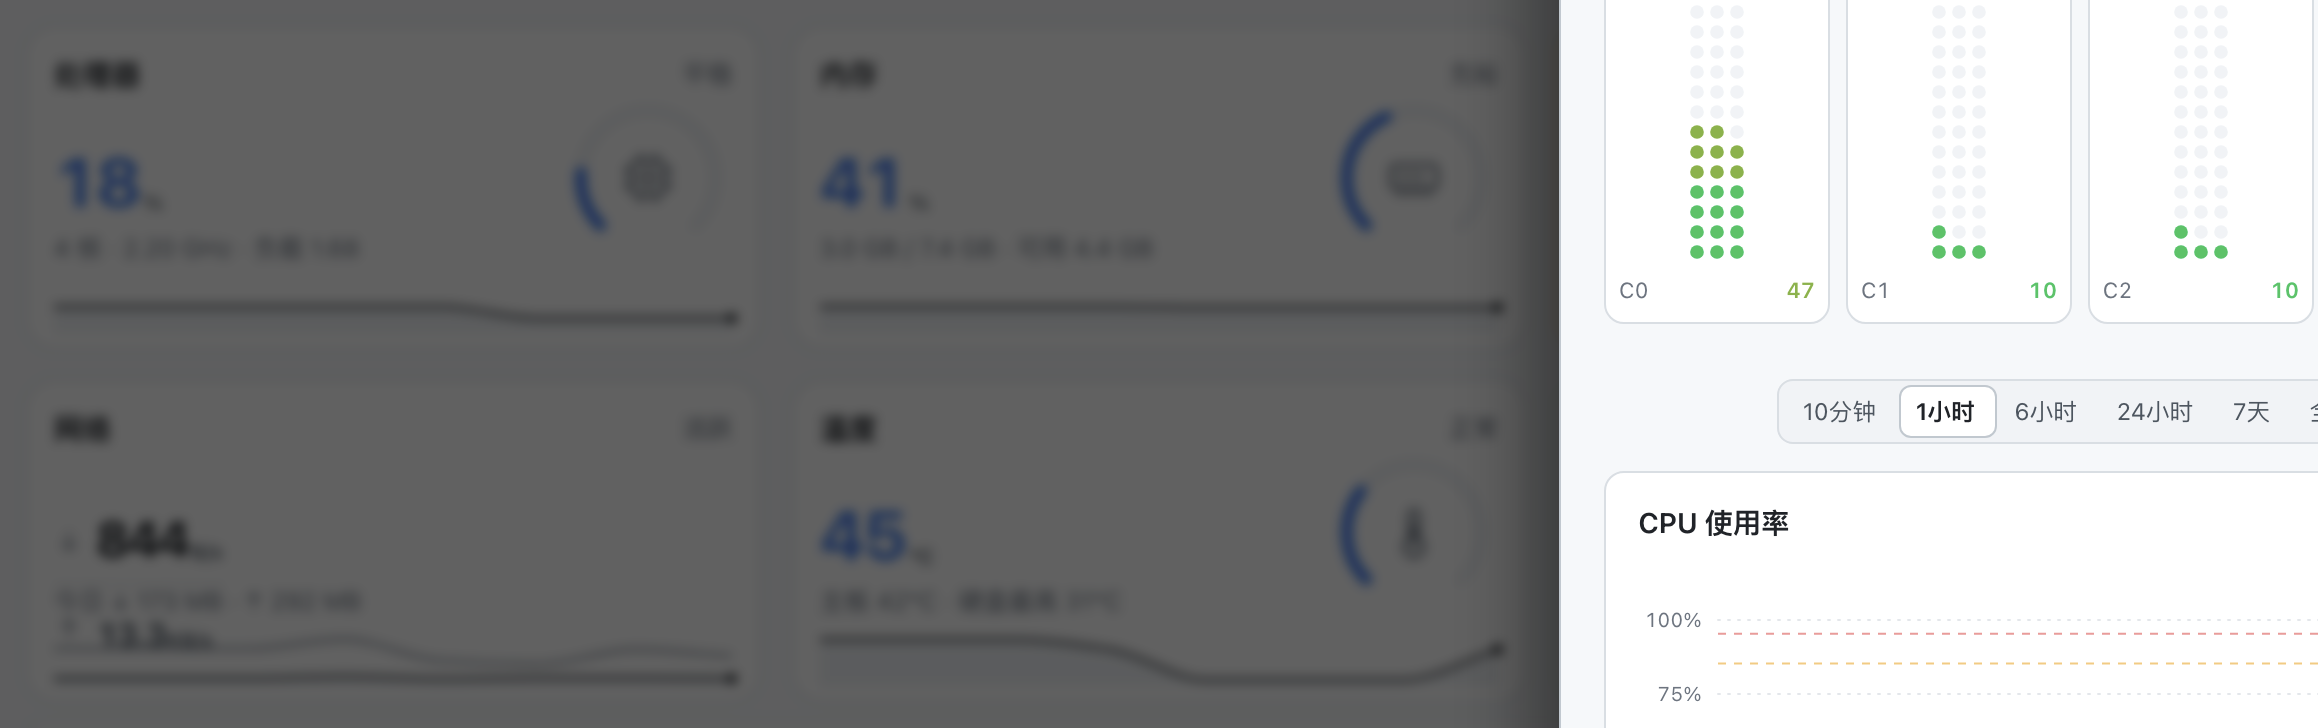
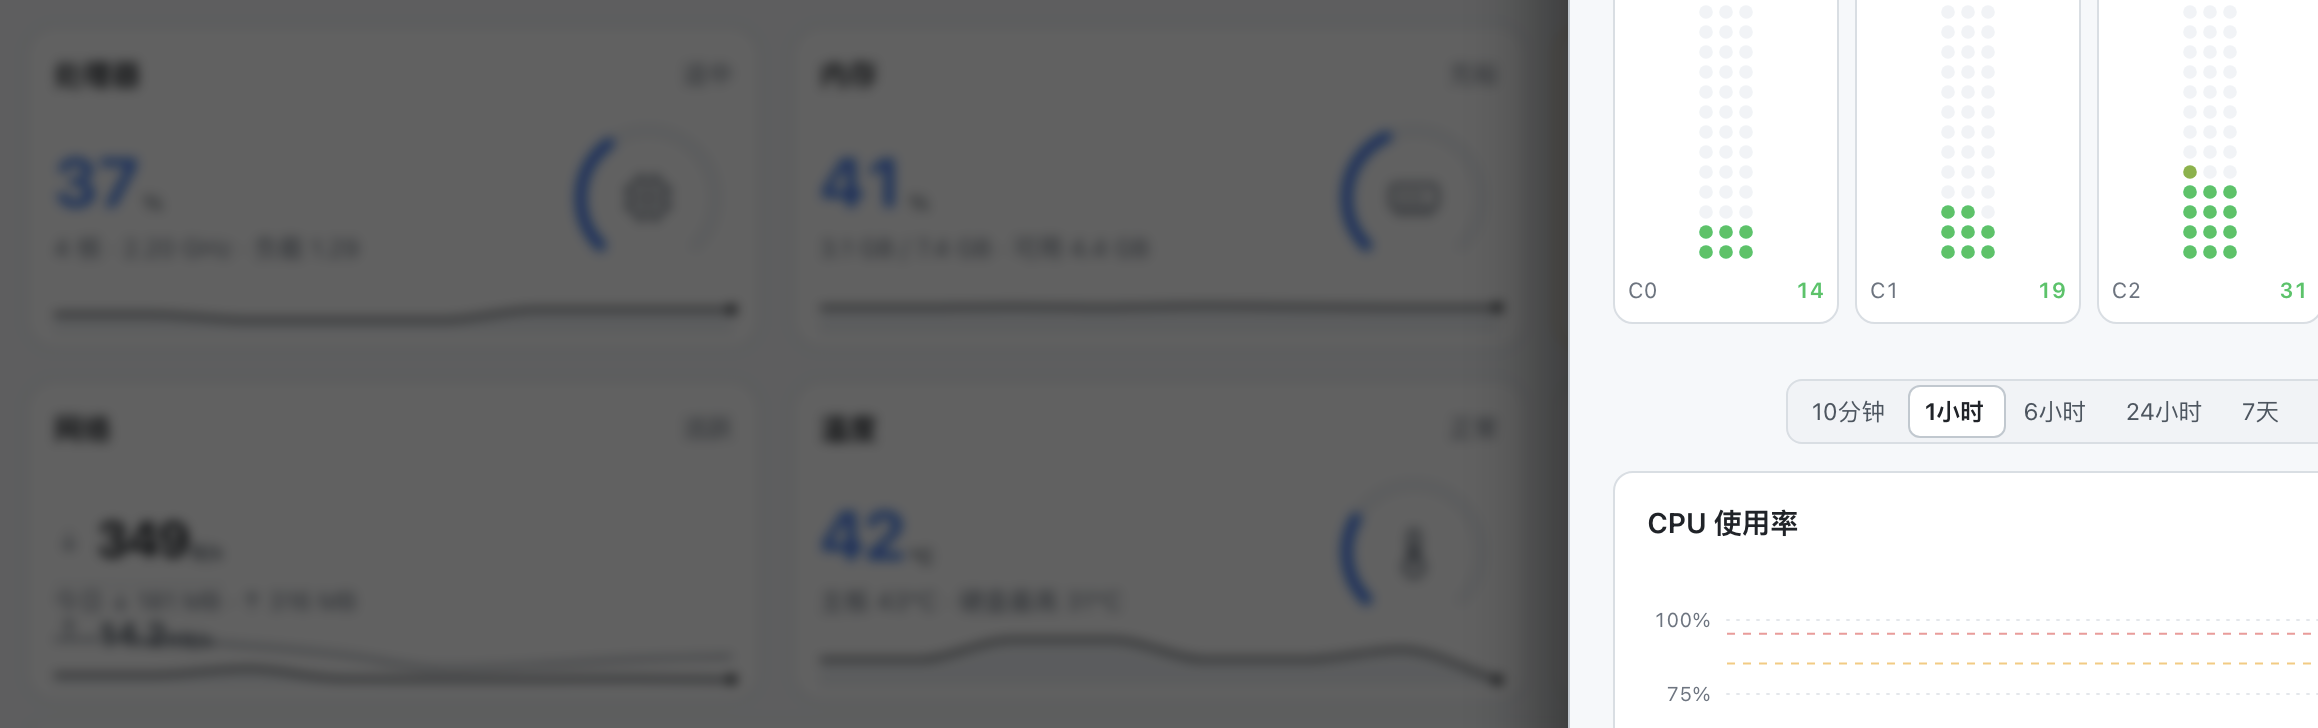
feat(monitor): 概览卡片右侧环形图再下移 10px（v1.1.77）
【老板反馈】「卡片右侧的环形图再下移10PX显示。」（v1.1.76 之后第二次要求）

【改动】.ov-m-gauge top: calc(.75rem + 22px) → calc(.75rem + 32px)，
环形图相对卡顶 35px → 45px。
基线链：v1.1.74 的 25px → v1.1.76 第一次 35px → 本次 45px。

【关键决策】数字与副标题这次**不跟随**下移：
① 老板只要求动环形图；
② 空间不允许 —— 卡片高 163px，仪表 84px（top 45 → bottom 129），
   副标题 103→121，底部趋势区从 124px 起；
   若副标题也下移 10px → 底到 131px，会压到底部趋势线 7px，比环形图更糟；
③ 环形图是右侧独立列（副标题有 padding-right: 92px 让开），
   下移后只是靠近趋势区，视觉上仍是镂空圆环，不遮挡趋势线。

【代价并已显式记录】数字中心与仪表圆心 diff 从 0 变为 10px ——
v1.1.73 定的「数字与环形图水平居中」不再成立，
这是老板明确要求（只动环形图）的取舍，
相关断言同步放宽至 ≤ 12px（verify_overview 3 处 + probe_overview 2 处）。

【实测】环形图相对卡顶 45px、数字仍 61px、副标题仍 103px、
数字与仪表圆心 diff = -10px、卡片仍 163px 六卡完全等高、
存储卡右上角「1 块需留意」+ is-warn 保持不变。
截图确认环形图与数字、副标题、底部趋势线均无重叠。

【测试】verify/verify_overview.py 283 → 287/287（新增 4 项：
二次下移位置 / 数字未跟随 / 副标题未跟随 / 卡高不变 / diff=10px）；
verify/probe_overview.py 71 → 75/75（实机，断言同步更新）。
回归全绿：verify_storage_collect 120/120、verify_browser_render 42/42、
verify_service_start 21/21、probe_monitor_deep 59/59。
FPK 连构 3 次字节一致（1496920 字节，
MD5 c6967487110130494b217eacfa117005）。

diff --git a/app/ui/static/css/app.css b/app/ui/static/css/app.css
@@ -5359,7 +5359,15 @@ html.mon-scroll-lock body {
 .ov-metric[data-ov="disk"] .ov-m-gauge,
 .ov-metric[data-ov="temp"] .ov-m-gauge,
 .ov-metric[data-ov="pwr"] .ov-m-gauge {
-  top: calc(.75rem + 22px);
+  /* ⚠ v1.1.76 老板第二次反馈「卡片右侧的环形图再下移10PX显示」
+     → 22 + 10 = **32px**（相对卡顶 35 → 45px）。
+     ⚠ 本次**数字与副标题不再跟随下移**：
+     - 老板只要求动环形图；
+     - 若数字/副标题也下移，副标题底会到 131px，
+       反而压到底部趋势区（124px 起）7px，比环形图更糟。
+     - 代价：数字中心与仪表圆心的 diff 从 0 变成 10px
+       （v1.1.73 定的「水平居中」不再成立），这是老板明确要求的取舍。 */
+  top: calc(.75rem + 32px);
 }
 .ov-gauge { width: 100%; height: 100%; display: block; }
 .ov-gauge-track { stroke: var(--bg-hover); }

diff --git a/app/ui/index.html b/app/ui/index.html
@@ -35,7 +35,7 @@
     </div>
     <!-- 顶栏右侧：当前版本号 + 检查更新入口 + 新页面打开 -->
     <div class="topbar-right" id="topbarUpdate">
-      <span class="ver-pill" id="verPill" title="当前版本">v1.1.76</span>
+      <span class="ver-pill" id="verPill" title="当前版本">v1.1.77</span>
       <span class="ub-status" id="tbUpdateStatus"></span>
       <button class="btn sm icon-btn" id="tbCheckUpdate" type="button" title="检查更新" aria-label="检查更新">
         <svg class="upd-ico" viewBox="0 0 24 24" aria-hidden="true">

diff --git a/app/ui/static/js/app.js b/app/ui/static/js/app.js
@@ -1533,7 +1533,7 @@
   var AUTOINSTALL_KEY = 'fnstyle_autoinstall_update_v1';
   /* 当前版本号：与 manifest 的 version 保持一致，发版时同步修改。
      顶栏版本胶囊与「发现新版本」提示都基于它展示。 */
-  var APP_VERSION = '1.1.76';
+  var APP_VERSION = '1.1.77';
 
   /* 顶栏右侧更新控件：版本胶囊 + 检查/下载按钮 + 状态文字。
      reason：error 态下展示在状态文字与悬停提示里的诊断摘要（可省略）。

diff --git a/verify/verify_overview.py b/verify/verify_overview.py
@@ -1059,9 +1059,11 @@ def run_tests(page):
     truthy('真实渲染', '六卡完全等高（max-min ≤ 1px）',
            hs and (max(hs) - min(hs)) <= 1, hs)
     # ⚠ v1.1.71：数字与仪表**同一水平线**（中心差 = 0）
+    # ⚠ v1.1.76 第二次：老板只要求环形图再下移 10px，数字**不跟随**
+    #    → diff 变成 10px，断言放宽到 ≤ 12px。
     ad = res['alignDiffs']
-    truthy('真实渲染', '数字与仪表中心对齐（5 张仪表 diff ≤ 2px）',
-           ad and all(d <= 2 for d in ad), ad)
+    truthy('真实渲染', '数字与仪表中心对齐（5 张仪表 diff ≤ 12px）',
+           ad and all(abs(d) <= 12 for d in ad), ad)
 
     # ----------------------------------------------------------
     section('H2 v1.1.72：外层卡片 / 底部留白 / 趋势线（老板 4 条反馈）')
@@ -1189,9 +1191,9 @@ def run_tests(page):
     # ⑤ 「左侧的值和统计之间的间距调小，并统计上移一点与右侧的环形图水平居中显示」
     truthy('数字居中', '数字与单位间距 ≤ 3px（v1.1.73 调小）',
            0 <= res['numUnitGap'] <= 3, res['numUnitGap'])
-    truthy('数字居中', '数字与仪表圆心同一水平线（5 张卡 diff ≤ 3px）',
+    truthy('数字居中', '数字与仪表圆心同一水平线（5 张卡 diff ≤ 12px）',
            res['numCenterVsGauge'] and
-           all(abs(d) <= 3 for d in res['numCenterVsGauge']),
+           all(abs(d) <= 12 for d in res['numCenterVsGauge']),
            res['numCenterVsGauge'])
     truthy('数字居中', '数字区行高 = 48px（v1.1.74 锁高，六卡等高）',
            res['mainRowH'] and abs(res['mainRowH'] - 48) < 2, res['mainRowH'])
@@ -1225,9 +1227,9 @@ def run_tests(page):
     # 仪表改绝对定位 → 脱离 grid 流，不再撑高卡片
     eq('卡高', '仪表是绝对定位（不参与 grid 行高计算）',
        res['gaugePos'], 'absolute')
-    # 数字与仪表圆心仍然水平居中
-    truthy('卡高', '数字中心与仪表圆心 diff ≤ 2px',
-           abs(res['dmGaugeCydiff']) <= 2, res['dmGaugeCydiff'])
+    # 数字与仪表圆心：v1.1.76 二次下移后 diff = 10px（老板只动环形图）
+    truthy('卡高', '数字中心与仪表圆心 diff ≤ 12px（二次下移的预期代价）',
+           abs(res['dmGaugeCydiff']) <= 12, res['dmGaugeCydiff'])
 
     # ----------------------------------------------------------
     section('I 可点性白名单')
@@ -1460,6 +1462,7 @@ def run_tests(page):
        r['state'], '1 块需留意')
 
     # ⑨ 环形图下移 10px（v1.1.76）
+    #    基线链：v1.1.74 = 25px → 第一次下移 = 35px → 第二次下移 = **45px**
     res = page.evaluate("""() => {
       const host = document.getElementById('monOverview');
       const out = {};
@@ -1472,11 +1475,33 @@ def run_tests(page):
       }
       return out;
     }""")
-    # v1.1.74 是 +25px（.75rem=12px + 12px 偏移 = 24 + 1px 边框）；
-    # v1.1.76 再下移 10px → +35px 左右
     for k in ['cpu', 'mem', 'disk', 'temp', 'pwr']:
-        truthy('环形图', '%s 卡环形图已下移 10px（%d → %d）'
-               % (k, res[k] - 10, res[k]), abs(res[k] - 35) <= 2)
+        truthy('环形图', '%s 卡环形图二次下移后相对卡顶 = 45px（25+10+10）'
+               % k, abs(res[k] - 45) <= 2)
+
+    # ⑪ 数字与副标题**不跟随**环形图二次下移（老板只要求动环形图）
+    #    数字相对卡顶仍 61px、副标题仍 103px、卡高仍 163px
+    res2 = page.evaluate("""() => {
+      const host = document.getElementById('monOverview');
+      const c = host.querySelector('[data-ov="cpu"]');
+      const d = c.querySelector('[data-ov-val="cpuV"]');
+      const s = c.querySelector('[data-ov-sub="cpu"]');
+      const g = c.querySelector('.ov-m-gauge');
+      const cb = c.getBoundingClientRect();
+      const dr = d.getBoundingClientRect(), sr = s.getBoundingClientRect();
+      const gr = g.getBoundingClientRect();
+      return { dm: Math.round(dr.top - cb.top), sub: Math.round(sr.top - cb.top),
+               h: Math.round(cb.height),
+               diff: Math.round((dr.top + dr.height/2) - (gr.top + gr.height/2)) };
+    }""")
+    truthy('环形图', '数字未跟随下移（相对卡顶仍 61px）',
+           abs(res2['dm'] - 61) <= 2, res2['dm'])
+    truthy('环形图', '副标题未跟随下移（相对卡顶仍 103px）',
+           abs(res2['sub'] - 103) <= 2, res2['sub'])
+    truthy('环形图', '卡片高度仍 163px',
+           abs(res2['h'] - 163) <= 2, res2['h'])
+    truthy('环形图', '数字与仪表圆心 diff = 10px（二次下移的预期代价）',
+           abs(abs(res2['diff']) - 10) <= 2, res2['diff'])
 
     # ⚠ J2 段反复重渲染会污染后面「告警态大数字着色」断言读取的 DOM ——
     #    这里把页面恢复成 J 段的告警快照，让后续断言读到正确状态。

diff --git a/verify/probe_overview.py b/verify/probe_overview.py
@@ -467,8 +467,10 @@ def main():
     ck.check('卡片高度 ≤ 220px（已压缩）',
              bool(hs) and max(hs) <= 220, str(hs))
     ad = ov.get('alignDiffs') or []
-    ck.check('数字与仪表中心对齐（5 张仪表 diff ≤ 2px）',
-             len(ad) == 5 and all(d <= 2 for d in ad), str(ad))
+    # ⚠ v1.1.77：环形图第二次下移 10px（老板只要求动环形图，数字不跟随）
+    #    → 数字中心与仪表圆心 diff 从 0 变成 10px，断言放宽到 ≤ 12px。
+    ck.check('数字与仪表中心对齐（5 张仪表 diff ≤ 12px）',
+             len(ad) == 5 and all(abs(d) <= 12 for d in ad), str(ad))
     ck.check('仪表尺寸 84×84（v1.1.73 放大后）',
              abs((ov.get('gaugeW') or 0) - 84) < 2, str(ov.get('gaugeW')))
 
@@ -536,9 +538,11 @@ def main():
     # ----------------------------------------------------------
     # 老板：「将卡片中右侧的环形图往下移10PX，
     #   存储卡片右上角的充足在存在硬盘问题是替换为问题提示」
-    # v1.1.74 基线：环形图相对卡顶 25px → 下移 10px → 35px
-    ck.check('环形图相对卡顶 = 35px（v1.1.74 的 25 + 10）',
-             abs((ov.get('gaugeRelTop') or -1) - 35) <= 2, str(ov.get('gaugeRelTop')))
+    # v1.1.74 基线：环形图相对卡顶 25px
+    #   → v1.1.76 第一次下移 10px → 35px
+    #   → v1.1.76 第二次再下移 10px → **45px**
+    ck.check('环形图相对卡顶 = 45px（25 + 10 + 10）',
+             abs((ov.get('gaugeRelTop') or -1) - 45) <= 2, str(ov.get('gaugeRelTop')))
     # 存储卡：实机 sdc udma_crc=60 → grade=warn → 应显示「1 块需留意」
     #   （若 NAS 上确实无 SMART 计数问题，则允许「充足」，但不能是别的词）
     _ds = ov.get('diskState') or ''
@@ -551,12 +555,13 @@ def main():
         ck.check('存储卡有硬盘问题时带告警类（is-warn/is-crit）',
                  bool(ov.get('diskWarn') or ov.get('diskCrit')),
                  'warn=%s crit=%s' % (ov.get('diskWarn'), ov.get('diskCrit')))
-    # 数字与仪表圆心仍须水平居中（环形图下移后数字同步跟随）
-    # ⚠ 不能用 `or 99` 兜底 —— diff 恰好为 0 时会被当成 falsy 变成 99，
-    #    导致「完全对齐」反而判失败（0 是合法值）。
+    # ⚠ 数字与仪表圆心的 diff：环形图第二次下移 10px 后，
+    #    老板只要求动环形图、数字不动 → diff 变成 **10px**（不再是 0）。
+    #    这是老板明确要求的取舍，断言随之放宽到 ≤ 12px。
+    #    ⚠ 不能用 `or 99` 兜底 —— diff 为 0 时会被当成 falsy 变成 99。
     _diff = ov.get('dmGaugeCydiff')
-    ck.check('数字与仪表圆心仍水平居中（diff ≤ 2px）',
-             isinstance(_diff, (int, float)) and abs(_diff) <= 2, str(_diff))
+    ck.check('数字与仪表圆心 diff ≤ 12px（环形图二次下移 10px，数字未跟随）',
+             isinstance(_diff, (int, float)) and abs(_diff) <= 12, str(_diff))
 
     # ----------------------------------------------------------
     ck.section('6. 趋势层')

diff --git a/app/ui/monitor_collect.py b/app/ui/monitor_collect.py
@@ -64,7 +64,7 @@ except Exception:  # pragma: no cover
 #    （nicDetail 里有新字段、但缺 tunnel 键，正是新旧代码混合的指纹）。
 #    这个常量会随 power 数据一起上报，从 API 一眼就能确认
 #    「NAS 上跑的到底是哪一版代码」，省掉逐字段比对。
-COLLECT_VERSION = "1.1.76"
+COLLECT_VERSION = "1.1.77"
 
 
 # ----------------------------- 基础工具 -----------------------------
